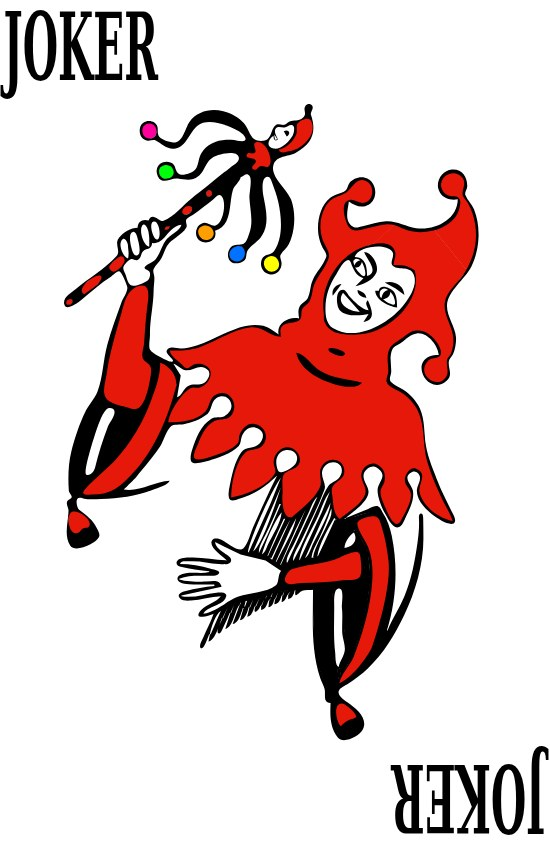
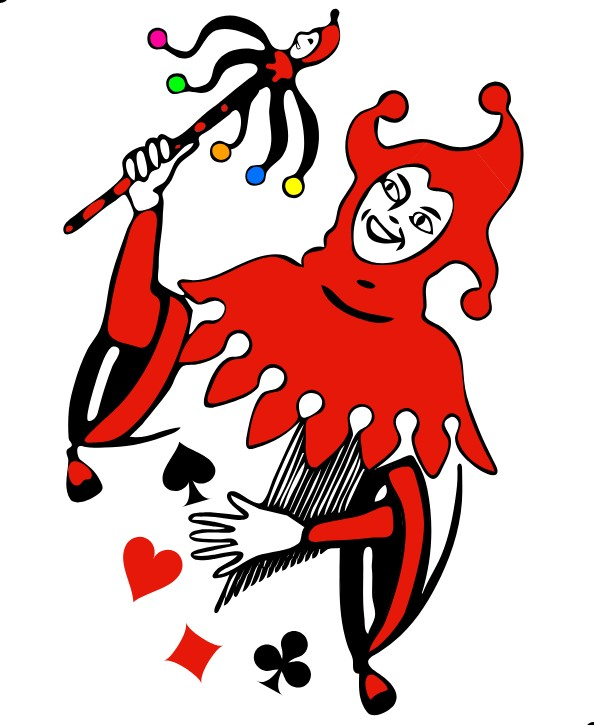
סטודיו v0.16: ג'וקר רוקד מ-Wikimedia (CC0) + תמונה על האס
- studio/cards/wm: ליצן רוקד מחפיסת Atlas (Dmitry Fomin, CC0), חתוך לדמות בלבד
- fr/joker_*: חיתוך בלי המילה JOKER
- ג'וקר: 'ליצן אחר' (JOKER_SETS) — fr לסט הצרפתי, wm לאחרים
- האס: הסבר שאפשר לשים תמונה או אימוג'י

Claude-Session: https://claude.ai/code/session_01XS1TYWKCgD9UZeYAZG4Q6f

diff --git a/studio/index.html b/studio/index.html
@@ -238,7 +238,7 @@ body.admin .cust{display:none!important}
 <script>
 const NETS={"d4":{"faces":4,"sides":3,"pos":[[[1.2247,0.9659],[0.2588,1.2247],[0.5176,0.2588]],[[0,2.1907],[0.2588,1.2247],[0.9659,1.9319]],[[0.9659,1.9319],[0.2588,1.2247],[1.2247,0.9659]],[[1.2247,0.9659],[0.5176,0.2588],[1.4836,0]]],"tabs":[{"e":[[0.2588,1.2247],[0.5176,0.2588]],"f":0,"d":0.28,"t":0.25},{"e":[[0.9659,1.9319],[0,2.1907]],"f":1,"d":0.28,"t":0.25},{"e":[[1.2247,0.9659],[0.9659,1.9319]],"f":2,"d":0.28,"t":0.25}],"cuts":[[[0,2.1907],[0.2588,1.2247]],[[0.5176,0.2588],[1.4836,0]],[[1.4836,0],[1.2247,0.9659]]],"folds":[[[1.2247,0.9659],[0.2588,1.2247]],[[0.5176,0.2588],[1.2247,0.9659]],[[0.2588,1.2247],[0.9659,1.9319]]],"w":1.4836,"h":2.3964,"opp":[-1,-1,-1,-1],"maxEdge":104.3},"d6":{"faces":6,"sides":4,"pos":[[[1.1953,4.1008],[0.2557,3.7588],[0.5977,2.8191],[1.5374,3.1611]],[[0,1.5374],[0.342,0.5977],[1.2817,0.9397],[0.9397,1.8794]],[[1.2817,0.9397],[1.6237,0],[2.5634,0.342],[2.2214,1.2817]],[[1.5374,3.1611],[0.5977,2.8191],[0.9397,1.8794],[1.8794,2.2214]],[[2.8191,2.5634],[2.4771,3.5031],[1.5374,3.1611],[1.8794,2.2214]],[[0.9397,1.8794],[1.2817,0.9397],[2.2214,1.2817],[1.8794,2.2214]]],"tabs":[{"e":[[1.1953,4.1008],[0.2557,3.7588]],"f":0,"d":0.28,"t":0.25},{"e":[[0.2557,3.7588],[0.5977,2.8191]],"f":0,"d":0.28,"t":0.25},{"e":[[1.5374,3.1611],[1.1953,4.1008]],"f":0,"d":0.28,"t":0.25},{"e":[[0.342,0.5977],[1.2817,0.9397]],"f":1,"d":0.28,"t":0.25},{"e":[[0.9397,1.8794],[0,1.5374]],"f":1,"d":0.28,"t":0.25},{"e":[[2.5634,0.342],[2.2214,1.2817]],"f":2,"d":0.28,"t":0.25},{"e":[[1.8794,2.2214],[2.8191,2.5634]],"f":4,"d":0.28,"t":0.25}],"cuts":[[[1.6237,0],[2.5634,0.342]],[[0,1.5374],[0.342,0.5977]],[[2.4771,3.5031],[1.5374,3.1611]],[[1.2817,0.9397],[1.6237,0]],[[0.5977,2.8191],[0.9397,1.8794]],[[2.8191,2.5634],[2.4771,3.5031]],[[2.2214,1.2817],[1.8794,2.2214]]],"folds":[[[0.5977,2.8191],[1.5374,3.1611]],[[1.2817,0.9397],[0.9397,1.8794]],[[2.2214,1.2817],[1.2817,0.9397]],[[0.9397,1.8794],[1.8794,2.2214]],[[1.8794,2.2214],[1.5374,3.1611]]],"w":2.8191,"h":4.2784,"opp":[5,4,3,2,1,0],"maxEdge":58.4},"d8":{"faces":8,"sides":3,"pos":[[[0.684,1.172],[1.3268,1.9381],[0.342,2.1117]],[[0.342,2.1117],[1.3268,1.9381],[0.9848,2.8778]],[[1.6688,0.9984],[1.3268,1.9381],[0.684,1.172]],[[0.9848,2.8778],[1.3268,1.9381],[1.9696,2.7041]],[[0.0413,0.406],[1.0261,0.2323],[0.684,1.172]],[[0.9848,2.8778],[0,3.0514],[0.342,2.1117]],[[0.684,1.172],[1.0261,0.2323],[1.6688,0.9984]],[[1.6688,0.9984],[1.0261,0.2323],[2.0109,0.0587]]],"tabs":[{"e":[[0.342,2.1117],[0.684,1.172]],"f":0,"d":0.28,"t":0.25},{"e":[[1.6688,0.9984],[1.3268,1.9381]],"f":2,"d":0.28,"t":0.25},{"e":[[1.9696,2.7041],[0.9848,2.8778]],"f":3,"d":0.28,"t":0.25},{"e":[[0.0413,0.406],[1.0261,0.2323]],"f":4,"d":0.28,"t":0.25},{"e":[[0.9848,2.8778],[0,3.0514]],"f":5,"d":0.28,"t":0.25}],"cuts":[[[0.684,1.172],[0.0413,0.406]],[[1.3268,1.9381],[1.9696,2.7041]],[[2.0109,0.0587],[1.6688,0.9984]],[[0,3.0514],[0.342,2.1117]],[[1.0261,0.2323],[2.0109,0.0587]]],"folds":[[[0.684,1.172],[1.3268,1.9381]],[[1.3268,1.9381],[0.342,2.1117]],[[1.3268,1.9381],[0.9848,2.8778]],[[0.9848,2.8778],[0.342,2.1117]],[[0.684,1.172],[1.6688,0.9984]],[[1.0261,0.2323],[0.684,1.172]],[[1.0261,0.2323],[1.6688,0.9984]]],"w":2.0109,"h":3.2837,"opp":[7,6,5,4,3,2,1,0],"maxEdge":76.1},"d12":{"faces":12,"sides":5,"pos":[[[2.9967,3.8222],[3.0491,4.8209],[2.1155,5.1792],[1.4862,4.4021],[2.0308,3.5634]],[[3.1337,6.4367],[2.1678,6.1778],[2.1155,5.1792],[3.0491,4.8209],[3.6784,5.598]],[[0.5526,4.7604],[1.4862,4.4021],[2.1155,5.1792],[1.5708,6.0179],[0.6049,5.7591]],[[3.5414,2.9836],[2.9967,3.8222],[2.0308,3.5634],[1.9785,2.5648],[2.912,2.2064]],[[1.0125,2.306],[1.9785,2.5648],[2.0308,3.5634],[1.0972,3.9218],[0.4679,3.1446]],[[3.5414,2.9836],[4.5073,3.2424],[4.5596,4.241],[3.626,4.5994],[2.9967,3.8222]],[[3.7631,7.2138],[3.1337,6.4367],[3.6784,5.598],[4.6443,5.8568],[4.6966,6.8554]],[[4.4226,1.6266],[4.4749,2.6252],[3.5414,2.9836],[2.912,2.2064],[3.4567,1.3677]],[[1.3491,1.7876],[0.3832,1.5288],[0.3309,0.5302],[1.2645,0.1718],[1.8938,0.949]],[[0.6896,7.3749],[0.0603,6.5977],[0.6049,5.7591],[1.5708,6.0179],[1.6232,7.0165]],[[2.912,2.2064],[1.9785,2.5648],[1.3491,1.7876],[1.8938,0.949],[2.8597,1.2078]],[[3.4043,0.3691],[4.3379,0.0107],[4.9672,0.7879],[4.4226,1.6266],[3.4567,1.3677]]],"tabs":[{"e":[[2.9967,3.8222],[3.0491,4.8209]],"f":0,"d":0.22,"t":0.3},{"e":[[1.4862,4.4021],[2.0308,3.5634]],"f":0,"d":0.22,"t":0.3},{"e":[[3.1337,6.4367],[2.1678,6.1778]],"f":1,"d":0.28,"t":0.25},{"e":[[2.1678,6.1778],[2.1155,5.1792]],"f":1,"d":0.22,"t":0.3},{"e":[[3.0491,4.8209],[3.6784,5.598]],"f":1,"d":0.28,"t":0.25},{"e":[[0.5526,4.7604],[1.4862,4.4021]],"f":2,"d":0.28,"t":0.25},{"e":[[0.6049,5.7591],[0.5526,4.7604]],"f":2,"d":0.28,"t":0.25},{"e":[[1.0125,2.306],[1.9785,2.5648]],"f":4,"d":0.22,"t":0.3},{"e":[[0.4679,3.1446],[1.0125,2.306]],"f":4,"d":0.28,"t":0.25},{"e":[[3.5414,2.9836],[4.5073,3.2424]],"f":5,"d":0.22,"t":0.3},{"e":[[4.5073,3.2424],[4.5596,4.241]],"f":5,"d":0.28,"t":0.25},{"e":[[3.7631,7.2138],[3.1337,6.4367]],"f":6,"d":0.28,"t":0.25},{"e":[[4.6443,5.8568],[4.6966,6.8554]],"f":6,"d":0.28,"t":0.25},{"e":[[4.6966,6.8554],[3.7631,7.2138]],"f":6,"d":0.28,"t":0.25},{"e":[[2.912,2.2064],[3.4567,1.3677]],"f":7,"d":0.22,"t":0.3},{"e":[[0.3309,0.5302],[1.2645,0.1718]],"f":8,"d":0.28,"t":0.25},{"e":[[1.2645,0.1718],[1.8938,0.949]],"f":8,"d":0.28,"t":0.25},{"e":[[0.6896,7.3749],[0.0603,6.5977]],"f":9,"d":0.28,"t":0.25},{"e":[[1.8938,0.949],[2.8597,1.2078]],"f":10,"d":0.28,"t":0.25}],"cuts":[[[3.626,4.5994],[2.9967,3.8222]],[[2.0308,3.5634],[1.0972,3.9218]],[[1.5708,6.0179],[1.6232,7.0165]],[[2.1155,5.1792],[1.5708,6.0179]],[[4.5596,4.241],[3.626,4.5994]],[[1.0972,3.9218],[0.4679,3.1446]],[[0.3832,1.5288],[0.3309,0.5302]],[[1.9785,2.5648],[1.3491,1.7876]],[[1.3491,1.7876],[0.3832,1.5288]],[[4.4749,2.6252],[3.5414,2.9836]],[[3.6784,5.598],[4.6443,5.8568]],[[1.6232,7.0165],[0.6896,7.3749]],[[4.4226,1.6266],[4.4749,2.6252]],[[4.9672,0.7879],[4.4226,1.6266]],[[2.8597,1.2078],[2.912,2.2064]],[[0.0603,6.5977],[0.6049,5.7591]],[[3.4043,0.3691],[4.3379,0.0107]],[[4.3379,0.0107],[4.9672,0.7879]],[[3.4567,1.3677],[3.4043,0.3691]]],"folds":[[[3.0491,4.8209],[2.1155,5.1792]],[[2.1155,5.1792],[1.4862,4.4021]],[[2.0308,3.5634],[2.9967,3.8222]],[[3.6784,5.598],[3.1337,6.4367]],[[1.5708,6.0179],[0.6049,5.7591]],[[3.5414,2.9836],[2.9967,3.8222]],[[2.0308,3.5634],[1.9785,2.5648]],[[1.9785,2.5648],[2.912,2.2064]],[[2.912,2.2064],[3.5414,2.9836]],[[3.4567,1.3677],[4.4226,1.6266]],[[1.8938,0.949],[1.3491,1.7876]]],"w":4.9672,"h":7.3856,"opp":[11,10,7,9,6,8,4,2,5,3,1,0],"maxEdge":33.6},"d20":{"faces":20,"sides":3,"pos":[[[2.0234,2.2854],[1.0386,2.1117],[1.6814,1.3457]],[[1.6814,1.3457],[1.0386,2.1117],[0.6966,1.172]],[[1.3806,3.0514],[1.0386,2.1117],[2.0234,2.2854]],[[0.7378,3.8175],[0.3958,2.8778],[1.3806,3.0514]],[[0.6966,1.172],[1.0386,2.1117],[0.0538,1.9381]],[[2.0234,2.2854],[1.6814,1.3457],[2.6662,1.5193]],[[2.6662,1.5193],[1.6814,1.3457],[2.3242,0.5796]],[[1.3394,0.406],[1.6814,1.3457],[0.6966,1.172]],[[2.3654,3.2251],[2.0234,2.2854],[3.0082,2.459]],[[1.3806,3.0514],[2.0234,2.2854],[2.3654,3.2251]],[[2.6662,1.5193],[2.3242,0.5796],[3.309,0.7533]],[[0.3546,0.2323],[1.3394,0.406],[0.6966,1.172]],[[2.7075,4.1648],[3.0495,5.1044],[2.0647,4.9308]],[[2.7075,4.1648],[2.3654,3.2251],[3.3502,3.3987]],[[1.3806,3.0514],[2.3654,3.2251],[1.7226,3.9911]],[[1.7226,3.9911],[2.3654,3.2251],[2.7075,4.1648]],[[0.7378,3.8175],[1.3806,3.0514],[1.7226,3.9911]],[[1.0799,4.7571],[0.095,4.5835],[0.7378,3.8175]],[[1.0799,4.7571],[0.7378,3.8175],[1.7226,3.9911]],[[1.7226,3.9911],[2.7075,4.1648],[2.0647,4.9308]]],"tabs":[{"e":[[1.3806,3.0514],[1.0386,2.1117]],"f":2,"d":0.28,"t":0.25},{"e":[[0.7378,3.8175],[0.3958,2.8778]],"f":3,"d":0.28,"t":0.25},{"e":[[0.0538,1.9381],[0.6966,1.172]],"f":4,"d":0.28,"t":0.25},{"e":[[2.6662,1.5193],[2.0234,2.2854]],"f":5,"d":0.28,"t":0.25},{"e":[[1.6814,1.3457],[2.3242,0.5796]],"f":6,"d":0.28,"t":0.25},{"e":[[3.0082,2.459],[2.3654,3.2251]],"f":8,"d":0.28,"t":0.25},{"e":[[2.3242,0.5796],[3.309,0.7533]],"f":10,"d":0.28,"t":0.25},{"e":[[3.309,0.7533],[2.6662,1.5193]],"f":10,"d":0.28,"t":0.25},{"e":[[0.3546,0.2323],[1.3394,0.406]],"f":11,"d":0.28,"t":0.25},{"e":[[0.6966,1.172],[0.3546,0.2323]],"f":11,"d":0.28,"t":0.25},{"e":[[1.7226,3.9911],[1.0799,4.7571]],"f":18,"d":0.28,"t":0.25}],"cuts":[[[0.3958,2.8778],[1.3806,3.0514]],[[1.0386,2.1117],[0.0538,1.9381]],[[0.095,4.5835],[0.7378,3.8175]],[[2.0234,2.2854],[3.0082,2.459]],[[1.3394,0.406],[1.6814,1.3457]],[[2.3654,3.2251],[3.3502,3.3987]],[[2.7075,4.1648],[3.0495,5.1044]],[[3.3502,3.3987],[2.7075,4.1648]],[[3.0495,5.1044],[2.0647,4.9308]],[[1.0799,4.7571],[0.095,4.5835]],[[2.0647,4.9308],[1.7226,3.9911]]],"folds":[[[2.0234,2.2854],[1.0386,2.1117]],[[1.0386,2.1117],[1.6814,1.3457]],[[1.6814,1.3457],[2.0234,2.2854]],[[1.0386,2.1117],[0.6966,1.172]],[[0.6966,1.172],[1.6814,1.3457]],[[2.0234,2.2854],[1.3806,3.0514]],[[1.3806,3.0514],[0.7378,3.8175]],[[1.6814,1.3457],[2.6662,1.5193]],[[2.3242,0.5796],[2.6662,1.5193]],[[0.6966,1.172],[1.3394,0.406]],[[2.3654,3.2251],[2.0234,2.2854]],[[2.3654,3.2251],[1.3806,3.0514]],[[2.0647,4.9308],[2.7075,4.1648]],[[2.7075,4.1648],[2.3654,3.2251]],[[2.3654,3.2251],[1.7226,3.9911]],[[1.7226,3.9911],[1.3806,3.0514]],[[2.7075,4.1648],[1.7226,3.9911]],[[1.7226,3.9911],[0.7378,3.8175]],[[0.7378,3.8175],[1.0799,4.7571]]],"w":3.3628,"h":5.1044,"opp":[19,15,12,10,13,18,16,14,17,11,3,9,2,4,7,1,6,8,5,0],"maxEdge":49}};
 'use strict';
-const VERSION='studio-v0.15';
+const VERSION='studio-v0.16';
 // ═══════════ קבצים משותפים מהריפו (פונטים, עיצובי גב) ═══════════
 // נעוץ לקומיט ספציפי — שינוי בריפו לא ישבור את הקובץ הזה בלי שנעדכן כאן במכוון.
 const SHARED_COMMIT='f196a73a41a063231ba207a4296395f889aac265';
@@ -1050,7 +1050,9 @@ const ART={},SUIT_NAME={s:'spade',h:'heart',d:'diamond',c:'club'},RANK_NAME={J:'
 const FIG_SETS=[['fr','צרפתי'],['en','אנגלי'],['ak','אנגלי מודרני']],ART_TONES=[['none','מקורי'],['vintage','וינטג\''],['sepia','ספיה'],['bw','שחור-לבן']];
 // תמונות הדמויות (studio/cards/<סט>/): הדמות בלבד, בלי פינות ומסגרת — נכנסת למסגרת של הסגנון, כמו כל קלף אחר.
 // סט אחד לכל החפיסה (CD.war.pics), אלא אם דמות מסוימת קיבלה סט/תמונה אחרים. ג'וקר קיים רק בסט הצרפתי.
-const figId=(card,set)=>card.joker?'fr/'+(card.red?'joker_red':'joker_black'):set+'/'+SUIT_NAME[card.s]+'_'+RANK_NAME[card.rank];
+// ג'וקר: 'fr' = ליצן צרפתי; כל סט אחר = 'wm' (ליצן רוקד, Wikimedia CC0)
+const JOKER_SETS=[['fr','ליצן צרפתי'],['wm','ליצן רוקד']];
+const figId=(card,set)=>card.joker?(set==='fr'?'fr':'wm')+'/joker_'+(card.red?'red':'black'):set+'/'+SUIT_NAME[card.s]+'_'+RANK_NAME[card.rank];
 function deckPics(){const W=CD.war;if(W.pics)return W.pics;return W.style==='vintage'?(W.artSet==='en'?'en':'fr'):'none';} // בלי בחירה: וינטג' = צרפתי, אחרת בלי תמונות
 function figSet(F){if(!F)return null;if(F.mode==='art')return F.set||(deckPics()!=='none'?deckPics():'fr');if(F.mode==='std'){const p=deckPics();return p==='none'?null:p;}return null;}
 function cardArt(id){let a=ART[id];if(a)return a;a=ART[id]={img:new Image(),ok:false};
@@ -1120,7 +1122,7 @@ function warFront(card){const W=CD.war,w=W.w,h=W.h,pts=shapePts('rounded',w,h,W.
     ctx.restore();}};}
 function warArtIds(){const W=CD.war,faces=warFaces(),ids=new Set();if(CD.type!=='war'||!W.fronts)return [];
   ['J','Q','K'].forEach(r=>{const set=figSet(faces[r]);if(set)SUIT_ORDER.forEach(su=>ids.add(figId({s:su,rank:r},set)));});
-  if(W.jokers&&figSet(faces.JK))ids.add('fr/joker_red').add('fr/joker_black');return [...ids];}
+  const js=W.jokers&&figSet(faces.JK);if(js)ids.add(figId({joker:1,red:1},js)).add(figId({joker:1,red:0},js));return [...ids];}
 function warSample(rank,s,red){const it=warFront(rank==='JK'?{joker:1,red}:{s,red,rank}),c=el('canvas',{width:84,height:Math.round(84*CD.war.h/CD.war.w),class:'wthumb'}),x=c.getContext('2d'),k=84/CD.war.w;
   x.scale(k,k);it.draw(x,k);x.strokeStyle='#CBD5E1';x.lineWidth=.4;x.stroke(pathOf(it.pts));return c;}
 function warStyleSection(){return sec('סגנון החפיסה',true,
@@ -1135,12 +1137,12 @@ function warStyleSection(){return sec('סגנון החפיסה',true,
   rng(CD.war,'pip','גודל הצורות ♠ ♥ ♦ ♣',.6,1.3,.05));}
 function facesSection(){const faces=warFaces();
   return sec('נסיך, מלכה, מלך, אס וג\'וקר',Object.values(faces).some(F=>F.mode!=='std'),
-    el('p',{class:'hint'},'כברירת מחדל כל הדמויות מקבלות את אותו סט תמונות (בסגנון החפיסה, למעלה). כאן אפשר לשנות לדמות אחת: תמונה משלכם (למשל סבא כמלך), סט אחר או אימוג\'י. תמונה אחת = לכל ארבע הצורות; ארבע = אחת לכל צורה לפי הסדר ♠ ♥ ♦ ♣.'),
-    ...FACE_RANKS.filter(([k])=>k!=='JK'||CD.war.jokers).map(([k,he])=>{const F=faces[k],modes=[['std',k==='A'?'רגיל':'כמו כל החפיסה'],...(k==='A'||k==='JK'?[]:[['art','סט אחר']]),['photo','תמונה שלי'],['emoji','אימוג\'י']];
+    el('p',{class:'hint'},'כברירת מחדל כל הדמויות מקבלות את אותו סט תמונות (בסגנון החפיסה, למעלה). כאן אפשר לשנות לדמות אחת: תמונה משלכם (למשל סבא כמלך), סט אחר או אימוג\'י. גם לאס אפשר לשים תמונה או אימוג\'י. תמונה אחת = לכל ארבע הצורות; ארבע = אחת לכל צורה לפי הסדר ♠ ♥ ♦ ♣.'),
+    ...FACE_RANKS.filter(([k])=>k!=='JK'||CD.war.jokers).map(([k,he])=>{const F=faces[k],modes=[['std',k==='A'?'רגיל':'כמו כל החפיסה'],...(k==='A'?[]:[['art',k==='JK'?'ליצן אחר':'סט אחר']]),['photo','תמונה שלי'],['emoji','אימוג\'י']];
       const tag=F.mode==='photo'?' · תמונה':F.mode==='emoji'?' · '+F.emoji:F.mode==='art'?' · '+(FIG_SETS.find(x=>x[0]===F.set)||['','סט אחר'])[1]:'';
       return el('details',{class:'face',open:F.mode!=='std'?'':null},el('summary',{},he+tag),
         el('div',{class:'body'},seg(F,'mode',modes),
-          F.mode==='art'?seg(F,'set',FIG_SETS):null,
+          F.mode==='art'?seg(F,'set',k==='JK'?JOKER_SETS:FIG_SETS):null,
           F.mode==='photo'?[filesInput(F,'photo','תמונה ל'+he+' (עד 4: ♠ ♥ ♦ ♣)',{max:4,after:()=>rebuild()}),
             row('סגנון התמונה',seg(F,'filter',PHOTO_FILTERS)),
             seg(F,'layout',[['full','תמונה מלאה'],['double','כפולה — כמו קלף קלאסי']])]:null,
@@ -1447,7 +1449,7 @@ const Admin={id:'admin',label:'מנהל',
       num(G.reg,'inset','מרחק מהקצה',{min:5,max:30,step:.1}),num(G.reg,'length','אורך זרוע',{min:5,max:40,step:.1}),num(G.reg,'thickness','עובי',{min:.3,max:3,step:.1}),num(G.reg,'square','ריבוע',{min:2,max:10,step:.1}),
       el('p',{class:'hint'},'ברירת מחדל זהה למחולל המדבקות (15.9 / 20 / 1.3 / 5). ב-Studio: סימני רישום → Restore Defaults.')),
     printSection(),
-    sec('גרסה וקבצים משותפים',false,el('p',{class:'hint'},'v0.15 — קלפי מלחמה: מסגרת אחידה לכל החפיסה; דמויות = תמונה בתוך המסגרת, מתיקיית תמונות (3 סטים) או של הלקוח; סט אחד לכל החפיסה. v0.14 — קלפים חזרו לגרסה 0.12 (בקשת הושעיה); שמירה ופתיחה של עיצוב בקובץ ZIP נשארה. v0.12 — כניסת מנהל מזוהה גם כשהקישור נפתח בכרום (בדיקה חוזרת בכל חזרה לאפליקציה), הודעה על קישור שכבר שומש. v0.11 — קלפי מלחמה: סגנון וינטג\' עם ציורים קלאסיים, פונט וגודל צורות, פילטרים לתמונה, תמונה כפולה כמו קלף קלאסי. v0.10 — קלפי מלחמה: 4 סגנונות חפיסה, נסיך/מלכה/מלך/אס/ג\'וקר בתמונה או אימוג\'י, עורך שכבות לגב. v0.9 — הסטודיו עבר לתיקייה משלו (/studio/) — מבנה אפליקציה סטנדרטי; studio.html מפנה לשם. v0.8 — מדבקות: עורך שכבות (טקסט בכמה שורות, אימוג\'י, סמל, תמונה — גרירה, גודל, סיבוב), התאמה לכל ילד. v0.7 — אפשר להתקין כאפליקציה מכרום (אייקון, מסך מלא, נפתח גם בלי רשת). v0.6 — תמונות נשמרות במכשיר (IndexedDB) ושורדות רענון; חיתוך והסרת רקע בכל מקום שמעלים תמונה. v0.5 — עריכת תמונות מהדאבל: חיתוך פרצופים מתמונה קבוצתית, הסרת רקע מהירה ומדויקת; בדומינו — כמה תמונות להעלות. v0.4 — דומינו: ארבע גרסאות (קלאסי, חסום, רכבת מקסיקנית, משולשים) עם הסבר; ניסוח טקסטים ללקוח. v0.3 — הזמנות: לקוח שולח הזמנה ולא מוריד קבצים; מנהל נכנס עם קישור במייל ומוריד. v0.2 — גלריית פונטים עם הטקסט של הלקוח, קבוצות מדבקות על אותו דף, פאזל. v0.1 — בנייה ראשונית: מדבקות, קלפים, זיכרון, דומינו, קוביות.'),el('p',{class:'hint'},VERSION+' · פונטים ועיצובי גב נטענים מהריפו, נעוצים לקומיט '+SHARED_COMMIT.slice(0,7)+'.'),st,
+    sec('גרסה וקבצים משותפים',false,el('p',{class:'hint'},'v0.16 — ג\'וקר "ליצן רוקד" מ-Wikimedia (CC0) לסטים האנגליים, ג\'וקר צרפתי בלי כיתוב; בחירת ליצן לג\'וקר; תמונה על האס. v0.15 — קלפי מלחמה: מסגרת אחידה לכל החפיסה; דמויות = תמונה בתוך המסגרת, מתיקיית תמונות (3 סטים) או של הלקוח; סט אחד לכל החפיסה. v0.14 — קלפים חזרו לגרסה 0.12 (בקשת הושעיה); שמירה ופתיחה של עיצוב בקובץ ZIP נשארה. v0.12 — כניסת מנהל מזוהה גם כשהקישור נפתח בכרום (בדיקה חוזרת בכל חזרה לאפליקציה), הודעה על קישור שכבר שומש. v0.11 — קלפי מלחמה: סגנון וינטג\' עם ציורים קלאסיים, פונט וגודל צורות, פילטרים לתמונה, תמונה כפולה כמו קלף קלאסי. v0.10 — קלפי מלחמה: 4 סגנונות חפיסה, נסיך/מלכה/מלך/אס/ג\'וקר בתמונה או אימוג\'י, עורך שכבות לגב. v0.9 — הסטודיו עבר לתיקייה משלו (/studio/) — מבנה אפליקציה סטנדרטי; studio.html מפנה לשם. v0.8 — מדבקות: עורך שכבות (טקסט בכמה שורות, אימוג\'י, סמל, תמונה — גרירה, גודל, סיבוב), התאמה לכל ילד. v0.7 — אפשר להתקין כאפליקציה מכרום (אייקון, מסך מלא, נפתח גם בלי רשת). v0.6 — תמונות נשמרות במכשיר (IndexedDB) ושורדות רענון; חיתוך והסרת רקע בכל מקום שמעלים תמונה. v0.5 — עריכת תמונות מהדאבל: חיתוך פרצופים מתמונה קבוצתית, הסרת רקע מהירה ומדויקת; בדומינו — כמה תמונות להעלות. v0.4 — דומינו: ארבע גרסאות (קלאסי, חסום, רכבת מקסיקנית, משולשים) עם הסבר; ניסוח טקסטים ללקוח. v0.3 — הזמנות: לקוח שולח הזמנה ולא מוריד קבצים; מנהל נכנס עם קישור במייל ומוריד. v0.2 — גלריית פונטים עם הטקסט של הלקוח, קבוצות מדבקות על אותו דף, פאזל. v0.1 — בנייה ראשונית: מדבקות, קלפים, זיכרון, דומינו, קוביות.'),el('p',{class:'hint'},VERSION+' · פונטים ועיצובי גב נטענים מהריפו, נעוצים לקומיט '+SHARED_COMMIT.slice(0,7)+'.'),st,
       el('button',{type:'button',class:'btn ghost',on:{click:async()=>{try{localStorage.removeItem('studio.v1');}catch(e){}await clearSavedImages();location.reload();}}},'איפוס כל ההגדרות והתמונות'))];}
 };
 const PRODUCTS=[Stickers,Cards,Memory,Domino,Dice,Puzzle,Admin];

diff --git a/STUDIO.md b/STUDIO.md
@@ -1,7 +1,7 @@
 # STUDIO.md — סטודיו הדפסה וחיתוך (studio/index.html)
 
 > אתה המנהל של הפרויקט הזה. המסמך הזה הוא כל הרקע. קרא גם את CLAUDE.md ואת מרשם.md — הכללים שם חלים גם כאן.
-> עדכון אחרון: 27/09/2026. גרסה נוכחית: **studio-v0.15**.
+> עדכון אחרון: 28/09/2026. גרסה נוכחית: **studio-v0.16**.
 
 ## מה זה ולמה
 אפליקציית ווב חד-קובצית שמייצרת מוצרי הדפסה וחיתוך מותאמים אישית, כולם על **תשתית אחת**: דף A4 עם סימני רישום לסילואט (Cameo 4), קובץ הדפסה, וקובץ חיתוך SVG.
@@ -40,7 +40,7 @@
 - **מדבקות — שכבות:** `ST.layers` = `[{type:'text'|'emoji'|'symbol'|'photo', x,y (מרכז, שבר), sw,sh (שבר מהמדבקה), rot, …}]`. טקסט עם `bind:true` = שם הילד. `ST.kid[שם]` = `{font,scale,emoji}` — דורס רק את שכבת השם ואת האימוג'י הראשון של אותו ילד. עיצוב בלי שכבות נבנה מהשדות הישנים (`legacyLayers`, אותן תיבות בדיוק). **ציור ועורך קוראים לאותה `stickerItem`** — אין מימוש שני. `fonts()` כולל פונטים של כל השכבות וההתאמות (אחרת ה-PDF יוצא בפונט גיבוי).
 - **שמירה/פתיחה בקובץ ZIP** (`exportDesignZip`/`importDesignZip`, סעיף בכל מוצר): `design.json` = `{app:'hoshaya-studio', format:1, state:snapshot(), lists (נתיב→מזהים), images}` + `images/<id>.png|jpg`. הפתיחה מחליפה את כל העיצוב אחרי אישור, ושומרת ל-localStorage ול-IndexedDB. שם הקובץ באנגלית — שם בעברית נופל ל-"download" בכרום.
 - **עורך שכבות משותף** (`layerEditor(target,…)`): אותו עורך למדבקה (`STICKER_TARGET`) ולגב קלף (`BACK_TARGET`). target = `{D (מחזיק layers), w, h, item(), photoOwner(), bind, photoLabel, what}`. יעד חדש = אובייקט כזה, לא עורך חדש. `backItem` מצייר `deco.layers` מעל העיצוב.
-- **קלפי מלחמה (v0.15, לפי הסבר הושעיה):** הקלף = **מסגרת** + **תוכן**. המסגרת (רקע, פינות, מסגרת, פונט — `CD.war.style` `classic|vintage|big|modern|kids`, `font`, `pip`) אחידה בכל החפיסה, כולל הדמויות. הדמות = תמונה בתוך תיבה במסגרת (`drawFigure`, contain, על צבע הנייר). מקור התמונה: `CD.war.pics` (`none|fr|en|ak`; ריק = וינטג'→`fr`, אחרת `none`) לכל החפיסה; לדמות בודדת `faces[k].mode` = `std` (כמו החפיסה) / `art`+`set` / `photo` / `emoji`. תיקיית התמונות `studio/cards/{fr,en,ak}/` — **הדמות בלבד**, בלי פינות ומסגרת (ראו `cards/README.md` — מקורות ורישיונות). ג'וקר רק ב-`fr`. `ensureFonts` מחכה לתמונות דרך `cur.art()`. ⚠ לפני שינוי מבני בקלפים — לסכם להושעיה ולקבל אישור (v0.13 בוטל).
+- **קלפי מלחמה (v0.15, לפי הסבר הושעיה):** הקלף = **מסגרת** + **תוכן**. המסגרת (רקע, פינות, מסגרת, פונט — `CD.war.style` `classic|vintage|big|modern|kids`, `font`, `pip`) אחידה בכל החפיסה, כולל הדמויות. הדמות = תמונה בתוך תיבה במסגרת (`drawFigure`, contain, על צבע הנייר). מקור התמונה: `CD.war.pics` (`none|fr|en|ak`; ריק = וינטג'→`fr`, אחרת `none`) לכל החפיסה; לדמות בודדת `faces[k].mode` = `std` (כמו החפיסה) / `art`+`set` / `photo` / `emoji`. תיקיית התמונות `studio/cards/{fr,en,ak}/` — **הדמות בלבד**, בלי פינות ומסגרת (ראו `cards/README.md` — מקורות ורישיונות). ג'וקר (v0.16): `fr` = ליצן צרפתי (בלי המילה JOKER); כל סט אחר = `wm` — ליצן רוקד מחפיסת Atlas של Dmitry Fomin (Wikimedia Commons, CC0); ללקוח "ליצן אחר" (`JOKER_SETS`). האס: רגיל / תמונה שלי / אימוג'י. `ensureFonts` מחכה לתמונות דרך `cur.art()`. ⚠ לפני שינוי מבני בקלפים — לסכם להושעיה ולקבל אישור (v0.13 בוטל).
 - **עריכת תמונות** (`openImageEditor`, מקטע "עריכת תמונה"): הועתק מהדאבל — `removeBackground`, `cutComputeMask`, `cutMorphCleanup`, `cutApplyMaskFull`, `trimAlphaSquare` כמו שהם; הממשק נבנה מחדש. שינויים מכוונים: גודל הפלט לפי גודל הסימון במקור (300–1200px, לא 400 קבוע), וידיות שינוי-גודל רק לסימון הנבחר (באצבע, ידית של שכן חטפה גרירה). מופעל בכל `filesInput` (ברירת מחדל `edit:true`) — התמונה המקורית מוחלפת בחיתוכים שלה. הפלט קנבס עם שקיפות שמצויר ישר ל-PDF.
 - **פונטים:** בורר "כל הפונטים" מציג את הטקסט של הלקוח בכל פונט, טעינה עצלה (IntersectionObserver) — כמו במדבקות.
 - **קוביות:** פריסות אפוות ב-`const NETS` (נוצרו בסקריפט שפורש פאון תלת-ממדי, בודק שאין חפיפה של פאות/לשוניות, וממקסם גודל ב-A4). פאות מנוגדות מסתכמות נכון (`opp`).

diff --git a/CHANGELOG-studio.md b/CHANGELOG-studio.md
@@ -4,6 +4,7 @@
 
 | גרסה | תאריך | מה השתנה |
 |---|---|---|
+| studio-v0.16 | 28/09/2026 | **ג'וקר חדש מ-Wikimedia Commons (CC0):** ליצן רוקד מחפיסת Atlas של Dmitry Fomin, חתוך לדמות בלבד (בלי הכיתוב "Джокер") — משמש בסטים האנגליים. בסט הצרפתי הליצן הצרפתי נשאר, חתוך בלי המילה JOKER. לג'וקר אפשר לבחור "ליצן אחר". **האס:** הסבר שגם לו אפשר לשים תמונה או אימוג'י (היה קיים, לא היה ברור). שאר הקלפים זהים בפיקסלים ל-main. |
 | studio-v0.15 | 28/09/2026 | קלפי מלחמה לפי הסבר הושעיה: **מסגרת הקלף אחידה לכל החפיסה** (המלך באותו עיצוב כמו ה-6), ו**הדמות היא תמונה בתוך המסגרת** — מתיקיית תמונות או של הלקוח. תיקיית התמונות: 3 סטים (צרפתי, אנגלי, אנגלי מודרני — חדש, Adrian Kennard, CC0), חתוכים לדמות בלבד בלי פינות ומסגרת. סט אחד לכל החפיסה (`CD.war.pics`), ולכל דמות אפשר סט אחר/תמונה שלי/אימוג'י. הלבן של התמונה מקבל את צבע הנייר (וינטג' אחיד). |
 | studio-v0.14 | 28/09/2026 | **קלפים חזרו לגרסה 0.12** בבקשת הושעיה ("לא הסברתי את עצמי נכון"): סגנונות כולל וינטג', ציורים מוכנים (צרפתי/אנגלי), גוון, דמויות — בדיוק כמו ב-0.12 (`studio/cards/` הוחזר). **שמירה ופתיחה בקובץ ZIP נשארה.** |
 | studio-v0.13 | 28/09/2026 | **קלפי מלחמה בפשטות (בקשת הושעיה):** עיצוב חופשי של קלף אחד — פריסה, פונט, גודל צורות, צבעים, **טקסטורה ומסגרת** (אותו עורך רקע של הגב, בלי סמל) — עם תצוגה גדולה של קלף לבחירה; הדמויות = תמונה של הלקוח באמצע הקלף (או אימוג'י). **הוסרו:** סגנון וינטג', הציורים המוכנים (`studio/cards/`, שני הסטים) וגוון הציורים — "התמונות שהבאת לא טובות". **שמירה ופתיחה בקובץ ZIP** בכל מוצר: design.json + כל התמונות. |

diff --git a/מרשם.md b/מרשם.md
@@ -10,13 +10,14 @@
 | # | נושא | קובץ מושפע | מצב | הבא בתור |
 |---|---|---|---|---|
 | 19 | רענון מסלול אוטומטי במסלול הקוד | dobble.html | בעבודה, כל בדיקות הדפדפן עברו | PR זה |
-| S13 | סטודיו v0.15 — מסגרת אחידה + דמות כתמונה בתוך המסגרת (3 סטים / תמונת הלקוח) | studio/ | PR זה (ממוזג בסוף המשימה) | פתוח: מחיר חפיסת מלחמה (420 ₪) |
+| S14 | סטודיו v0.16 — ג'וקר רוקד מ-Wikimedia (CC0) + תמונה על האס | studio/ | PR זה (ממוזג בסוף המשימה) | פתוח: מחיר חפיסת מלחמה (420 ₪) |
 | 44 | מחירון מהשרת + מתג שפה (+ תיקון באג #23 והסבר דולרי) | dobble.html | PR זה — כל 5 הבדיקות החוסמות עברו | ממתין לאישור הושעיה |
 
 ## ✅ הושלם
 
 | # | נושא | PR | תאריך |
 |---|---|---|---|
+| סטודיו v0.15 — מסגרת אחידה + דמות כתמונה בתוך המסגרת (3 סטים / תמונת הלקוח) | #163 | 28/09/2026 |
 | סטודיו v0.14 — קלפים חזרו ל-0.12, ZIP נשאר | #162 | 28/09/2026 |
 | סטודיו v0.13 — קלפים "בפשטות" (בוטל ב-v0.14) + שמירה/פתיחה ב-ZIP | #161 | 28/09/2026 |
 | סטודיו v0.12 — תיקון כניסת מנהל באפליקציה + סט ציורים אנגלי | #160 | 28/09/2026 |

diff --git a/studio/cards/README.md b/studio/cards/README.md
@@ -2,7 +2,7 @@
 
 כל קובץ כאן הוא **הדמות בלבד** — בלי פינות האות/הצורה ובלי מסגרת הקלף המקורית — כדי שתיכנס
 למסגרת של הסטודיו, באותו סגנון כמו שאר הקלפים. רונדרו מ-SVG ל-JPEG (איכות 88); הציור עצמו לא שונה.
-ג'וקר קיים רק ב-`fr/` — שאר הסטים משתמשים בו.
+ג'וקרים: `fr/` (ליצן צרפתי, בלי המילה JOKER) ו-`wm/` (ליצן רוקד). בסט הצרפתי — הצרפתי; באנגלי ובאנגלי המודרני — הרוקד.
 
 ## `fr/` — צרפתי
 **SVG-cards 4.0.2** — David Bellot (2005), Huub de Beer (2016–2017). https://github.com/htdebeer/SVG-cards ·
@@ -15,3 +15,8 @@ npm `svg-cards` · רישיון **LGPL-2.1** (ראו `LICENSE`). הוסרו מה
 ## `ak/` — אנגלי מודרני
 Adrian Kennard — https://www.me.uk/cards/ , דרך npm `@letele/playing-cards` 0.1.0 · **CC0 1.0** (נחלת הכלל).
 הומר מרכיבי React חזרה ל-SVG, ונחתך לתיבת הדמות.
+
+## `wm/` — ג'וקר "ליצן רוקד"
+**Atlas deck joker** — Dmitry Fomin (Дмитрий Фомин), Wikimedia Commons:
+https://commons.wikimedia.org/wiki/File:Atlas_deck_joker_black.svg · https://commons.wikimedia.org/wiki/File:Atlas_deck_joker_red.svg ·
+**CC0 1.0** (נחלת הכלל). נחתך לדמות בלבד — בלי הכיתוב "Джокер" בצדדים.
